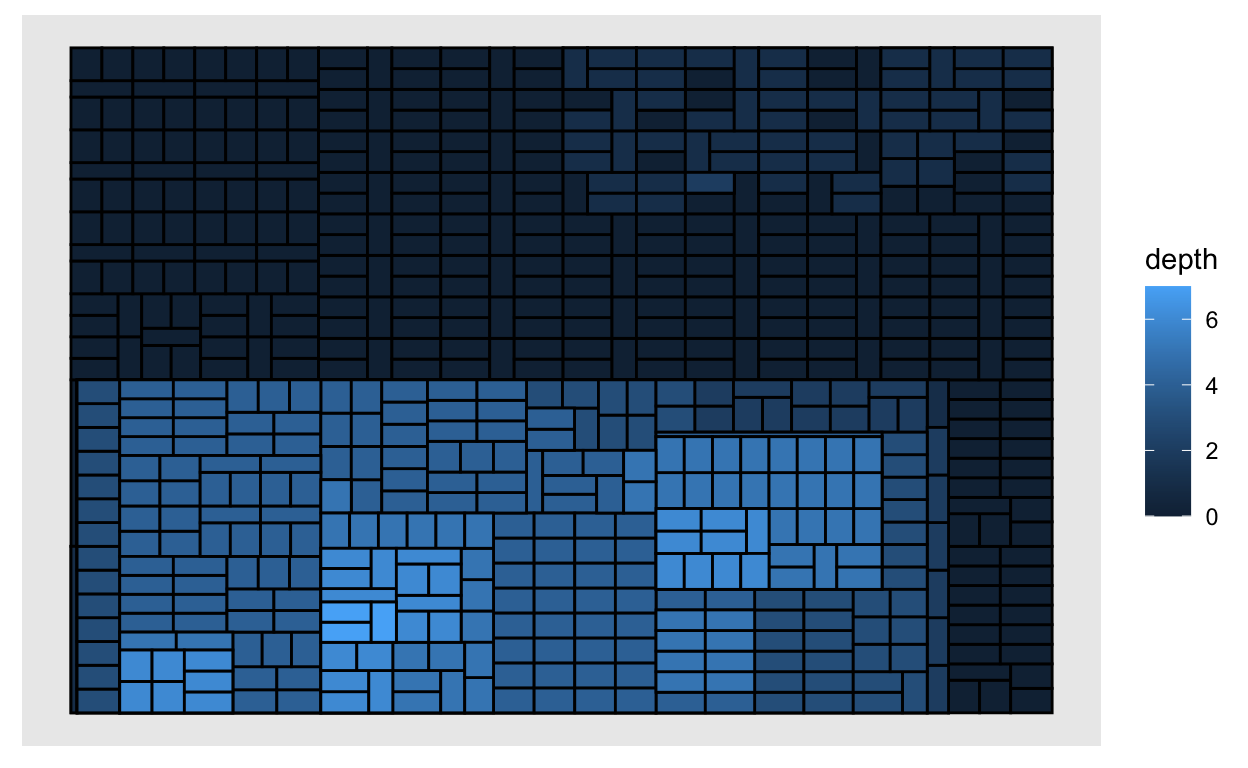
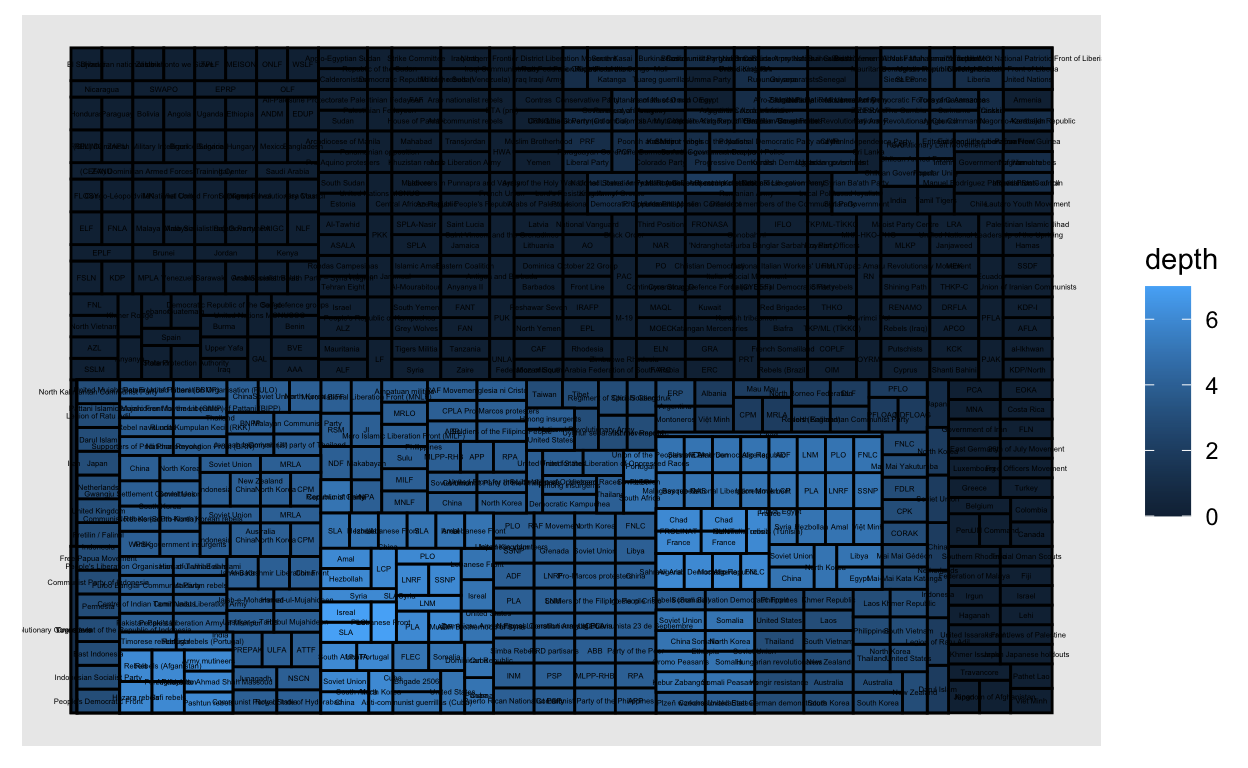
jlk

diff --git a/docs/_posts/2022-03-07-into-the-20th-century-conflict-data/into-the-20th-century-conflict-data.html b/docs/_posts/2022-03-07-into-the-20th-century-conflict-data/into-the-20th-century-conflict-data.html
@@ -117,7 +117,7 @@ code span.wa { color: #5e5e5e; font-style: italic; } /* Warning */
   <!--/radix_placeholder_rmarkdown_metadata-->
   
   <script type="text/json" id="radix-resource-manifest">
-  {"type":"character","attributes":{},"value":["into-the-20th-century-conflict-data_files/anchor-4.2.2/anchor.min.js","into-the-20th-century-conflict-data_files/bowser-1.9.3/bowser.min.js","into-the-20th-century-conflict-data_files/distill-2.2.21/template.v2.js","into-the-20th-century-conflict-data_files/figure-html5/unnamed-chunk-18-1.png","into-the-20th-century-conflict-data_files/figure-html5/unnamed-chunk-20-1.png","into-the-20th-century-conflict-data_files/figure-html5/unnamed-chunk-22-1.png","into-the-20th-century-conflict-data_files/figure-html5/unnamed-chunk-28-1.png","into-the-20th-century-conflict-data_files/figure-html5/unnamed-chunk-30-1.png","into-the-20th-century-conflict-data_files/figure-html5/unnamed-chunk-5-1.png","into-the-20th-century-conflict-data_files/figure-html5/unnamed-chunk-6-1.png","into-the-20th-century-conflict-data_files/figure-html5/unnamed-chunk-7-1.png","into-the-20th-century-conflict-data_files/header-attrs-2.11/header-attrs.js","into-the-20th-century-conflict-data_files/jquery-3.6.0/jquery-3.6.0.js","into-the-20th-century-conflict-data_files/jquery-3.6.0/jquery-3.6.0.min.js","into-the-20th-century-conflict-data_files/jquery-3.6.0/jquery-3.6.0.min.map","into-the-20th-century-conflict-data_files/popper-2.6.0/popper.min.js","into-the-20th-century-conflict-data_files/tippy-6.2.7/tippy-bundle.umd.min.js","into-the-20th-century-conflict-data_files/tippy-6.2.7/tippy-light-border.css","into-the-20th-century-conflict-data_files/tippy-6.2.7/tippy.css","into-the-20th-century-conflict-data_files/tippy-6.2.7/tippy.umd.min.js","into-the-20th-century-conflict-data_files/webcomponents-2.0.0/webcomponents.js"]}
+  {"type":"character","attributes":{},"value":["into-the-20th-century-conflict-data_files/anchor-4.2.2/anchor.min.js","into-the-20th-century-conflict-data_files/bowser-1.9.3/bowser.min.js","into-the-20th-century-conflict-data_files/distill-2.2.21/template.v2.js","into-the-20th-century-conflict-data_files/figure-html5/unnamed-chunk-18-1.png","into-the-20th-century-conflict-data_files/figure-html5/unnamed-chunk-20-1.png","into-the-20th-century-conflict-data_files/figure-html5/unnamed-chunk-22-1.png","into-the-20th-century-conflict-data_files/figure-html5/unnamed-chunk-28-1.png","into-the-20th-century-conflict-data_files/figure-html5/unnamed-chunk-30-1.png","into-the-20th-century-conflict-data_files/figure-html5/unnamed-chunk-5-1.png","into-the-20th-century-conflict-data_files/figure-html5/unnamed-chunk-6-1.png","into-the-20th-century-conflict-data_files/figure-html5/unnamed-chunk-7-1.png","into-the-20th-century-conflict-data_files/header-attrs-2.11/header-attrs.js","into-the-20th-century-conflict-data_files/jquery-3.6.0/jquery-3.6.0.js","into-the-20th-century-conflict-data_files/jquery-3.6.0/jquery-3.6.0.min.js","into-the-20th-century-conflict-data_files/jquery-3.6.0/jquery-3.6.0.min.map","into-the-20th-century-conflict-data_files/popper-2.6.0/popper.min.js","into-the-20th-century-conflict-data_files/tippy-6.2.7/tippy-bundle.umd.min.js","into-the-20th-century-conflict-data_files/tippy-6.2.7/tippy-light-border.css","into-the-20th-century-conflict-data_files/tippy-6.2.7/tippy.css","into-the-20th-century-conflict-data_files/tippy-6.2.7/tippy.umd.min.js","into-the-20th-century-conflict-data_files/webcomponents-2.0.0/webcomponents.js","Media-Network-gjs.html"]}
   </script>
   <!--radix_placeholder_navigation_in_header-->
   <!--/radix_placeholder_navigation_in_header-->
@@ -1521,7 +1521,8 @@ dataset.</p></p>
 <div class="layout-chunk" data-layout="l-body">
 <div class="sourceCode">
 <pre class="sourceCode r"><code class="sourceCode r"><span class='fu'>ggraph</span><span class='op'>(</span><span class='va'>Wars_in_latter_half_of_20th_network</span>, layout <span class='op'>=</span> <span class='st'>"treemap"</span><span class='op'>)</span> <span class='op'>+</span> 
-  <span class='fu'>geom_node_tile</span><span class='op'>(</span><span class='fu'>aes</span><span class='op'>(</span>fill <span class='op'>=</span> <span class='va'>depth</span><span class='op'>)</span><span class='op'>)</span>
+  <span class='fu'>geom_node_tile</span><span class='op'>(</span><span class='fu'>aes</span><span class='op'>(</span>fill <span class='op'>=</span> <span class='va'>depth</span><span class='op'>)</span><span class='op'>)</span><span class='op'>+</span>    
+  <span class='fu'>geom_node_text</span><span class='op'>(</span><span class='fu'>aes</span><span class='op'>(</span>label <span class='op'>=</span> <span class='va'>name</span><span class='op'>)</span>, size<span class='op'>=</span><span class='fl'>1</span>, repel<span class='op'>=</span><span class='cn'>FALSE</span><span class='op'>)</span>
 </code></pre>
 </div>
 <p><img src="into-the-20th-century-conflict-data_files/figure-html5/unnamed-chunk-7-1.png" width="624" /></p>
@@ -2176,6 +2177,30 @@ dataset.</p></p>
 </code></pre>
 </div>
 <p><img src="into-the-20th-century-conflict-data_files/figure-html5/unnamed-chunk-30-1.png" width="624" /></p>
+</div>
+<div class="layout-chunk" data-layout="l-body">
+<div class="sourceCode">
+<pre class="sourceCode r"><code class="sourceCode r"><span class='kw'><a href='https://rdrr.io/r/base/library.html'>library</a></span><span class='op'>(</span><span class='va'><a href='https://bwlewis.github.io/rthreejs'>threejs</a></span><span class='op'>)</span>
+<span class='kw'><a href='https://rdrr.io/r/base/library.html'>library</a></span><span class='op'>(</span><span class='va'><a href='https://github.com/ramnathv/htmlwidgets'>htmlwidgets</a></span><span class='op'>)</span>
+<span class='kw'><a href='https://rdrr.io/r/base/library.html'>library</a></span><span class='op'>(</span><span class='va'><a href='https://igraph.org'>igraph</a></span><span class='op'>)</span>
+</code></pre>
+</div>
+</div>
+<div class="layout-chunk" data-layout="l-body">
+<div class="sourceCode">
+<pre class="sourceCode r"><code class="sourceCode r"><span class='va'>net.js</span> <span class='op'>&lt;-</span> <span class='va'>Wars_in_latter_half_of_20th.ig</span>
+<span class='fu'><a href='https://rdrr.io/pkg/igraph/man/graph_attr.html'>graph_attr</a></span><span class='op'>(</span><span class='va'>net.js</span>, <span class='st'>"layout"</span><span class='op'>)</span> <span class='op'>&lt;-</span> <span class='cn'>NULL</span> 
+</code></pre>
+</div>
+</div>
+<div class="layout-chunk" data-layout="l-body">
+<div class="sourceCode">
+<pre class="sourceCode r"><code class="sourceCode r"><span class='va'>gjs</span> <span class='op'>&lt;-</span> <span class='fu'><a href='https://rdrr.io/pkg/threejs/man/graphjs.html'>graphjs</a></span><span class='op'>(</span><span class='va'>net.js</span>, main<span class='op'>=</span><span class='st'>"Cold War Interactive Network"</span>, bg<span class='op'>=</span><span class='st'>"gray10"</span>, vertex.size<span class='op'>=</span><span class='fl'>0.5</span>, showLabels<span class='op'>=</span><span class='cn'>T</span>, vertex.label <span class='op'>=</span> <span class='fu'><a href='https://rdrr.io/pkg/igraph/man/V.html'>V</a></span><span class='op'>(</span><span class='va'>net.js</span><span class='op'>)</span><span class='op'>$</span><span class='va'>name</span>, stroke<span class='op'>=</span><span class='cn'>F</span>, curvature<span class='op'>=</span><span class='fl'>0.1</span>, attraction<span class='op'>=</span><span class='fl'>0.9</span>, repulsion<span class='op'>=</span><span class='fl'>0.7</span>, opacity<span class='op'>=</span><span class='fl'>0.9</span><span class='op'>)</span>
+<span class='fu'><a href='https://rdrr.io/r/base/print.html'>print</a></span><span class='op'>(</span><span class='va'>gjs</span><span class='op'>)</span>
+<span class='co'>#saveWidget(gjs, file="Media-Network-gjs.html")</span>
+<span class='co'>#browseURL("Media-Network-gjs.html")</span>
+</code></pre>
+</div>
 </div>
 <div class="sourceCode" id="cb5"><pre
 class="sourceCode r distill-force-highlighting-css"><code class="sourceCode r"></code></pre></div>

diff --git a/docs/posts/2022-03-07-into-the-20th-century-conflict-data/index.html b/docs/posts/2022-03-07-into-the-20th-century-conflict-data/index.html
@@ -133,7 +133,7 @@ code span.wa { color: #5e5e5e; font-style: italic; } /* Warning */
 <!--/radix_placeholder_rmarkdown_metadata-->
   
   <script type="text/json" id="radix-resource-manifest">
-  {"type":"character","attributes":{},"value":["into-the-20th-century-conflict-data_files/anchor-4.2.2/anchor.min.js","into-the-20th-century-conflict-data_files/bowser-1.9.3/bowser.min.js","into-the-20th-century-conflict-data_files/distill-2.2.21/template.v2.js","into-the-20th-century-conflict-data_files/figure-html5/unnamed-chunk-18-1.png","into-the-20th-century-conflict-data_files/figure-html5/unnamed-chunk-20-1.png","into-the-20th-century-conflict-data_files/figure-html5/unnamed-chunk-22-1.png","into-the-20th-century-conflict-data_files/figure-html5/unnamed-chunk-28-1.png","into-the-20th-century-conflict-data_files/figure-html5/unnamed-chunk-30-1.png","into-the-20th-century-conflict-data_files/figure-html5/unnamed-chunk-5-1.png","into-the-20th-century-conflict-data_files/figure-html5/unnamed-chunk-6-1.png","into-the-20th-century-conflict-data_files/figure-html5/unnamed-chunk-7-1.png","into-the-20th-century-conflict-data_files/header-attrs-2.11/header-attrs.js","into-the-20th-century-conflict-data_files/jquery-3.6.0/jquery-3.6.0.js","into-the-20th-century-conflict-data_files/jquery-3.6.0/jquery-3.6.0.min.js","into-the-20th-century-conflict-data_files/jquery-3.6.0/jquery-3.6.0.min.map","into-the-20th-century-conflict-data_files/popper-2.6.0/popper.min.js","into-the-20th-century-conflict-data_files/tippy-6.2.7/tippy-bundle.umd.min.js","into-the-20th-century-conflict-data_files/tippy-6.2.7/tippy-light-border.css","into-the-20th-century-conflict-data_files/tippy-6.2.7/tippy.css","into-the-20th-century-conflict-data_files/tippy-6.2.7/tippy.umd.min.js","into-the-20th-century-conflict-data_files/webcomponents-2.0.0/webcomponents.js"]}
+  {"type":"character","attributes":{},"value":["into-the-20th-century-conflict-data_files/anchor-4.2.2/anchor.min.js","into-the-20th-century-conflict-data_files/bowser-1.9.3/bowser.min.js","into-the-20th-century-conflict-data_files/distill-2.2.21/template.v2.js","into-the-20th-century-conflict-data_files/figure-html5/unnamed-chunk-18-1.png","into-the-20th-century-conflict-data_files/figure-html5/unnamed-chunk-20-1.png","into-the-20th-century-conflict-data_files/figure-html5/unnamed-chunk-22-1.png","into-the-20th-century-conflict-data_files/figure-html5/unnamed-chunk-28-1.png","into-the-20th-century-conflict-data_files/figure-html5/unnamed-chunk-30-1.png","into-the-20th-century-conflict-data_files/figure-html5/unnamed-chunk-5-1.png","into-the-20th-century-conflict-data_files/figure-html5/unnamed-chunk-6-1.png","into-the-20th-century-conflict-data_files/figure-html5/unnamed-chunk-7-1.png","into-the-20th-century-conflict-data_files/header-attrs-2.11/header-attrs.js","into-the-20th-century-conflict-data_files/jquery-3.6.0/jquery-3.6.0.js","into-the-20th-century-conflict-data_files/jquery-3.6.0/jquery-3.6.0.min.js","into-the-20th-century-conflict-data_files/jquery-3.6.0/jquery-3.6.0.min.map","into-the-20th-century-conflict-data_files/popper-2.6.0/popper.min.js","into-the-20th-century-conflict-data_files/tippy-6.2.7/tippy-bundle.umd.min.js","into-the-20th-century-conflict-data_files/tippy-6.2.7/tippy-light-border.css","into-the-20th-century-conflict-data_files/tippy-6.2.7/tippy.css","into-the-20th-century-conflict-data_files/tippy-6.2.7/tippy.umd.min.js","into-the-20th-century-conflict-data_files/webcomponents-2.0.0/webcomponents.js","Media-Network-gjs.html"]}
   </script>
   <!--radix_placeholder_navigation_in_header-->
 <meta name="distill:offset" content="../.."/>
@@ -2156,7 +2156,8 @@ dataset.</p></p>
 <div class="layout-chunk" data-layout="l-body">
 <div class="sourceCode">
 <pre class="sourceCode r"><code class="sourceCode r"><span class='fu'>ggraph</span><span class='op'>(</span><span class='va'>Wars_in_latter_half_of_20th_network</span>, layout <span class='op'>=</span> <span class='st'>"treemap"</span><span class='op'>)</span> <span class='op'>+</span> 
-  <span class='fu'>geom_node_tile</span><span class='op'>(</span><span class='fu'>aes</span><span class='op'>(</span>fill <span class='op'>=</span> <span class='va'>depth</span><span class='op'>)</span><span class='op'>)</span>
+  <span class='fu'>geom_node_tile</span><span class='op'>(</span><span class='fu'>aes</span><span class='op'>(</span>fill <span class='op'>=</span> <span class='va'>depth</span><span class='op'>)</span><span class='op'>)</span><span class='op'>+</span>    
+  <span class='fu'>geom_node_text</span><span class='op'>(</span><span class='fu'>aes</span><span class='op'>(</span>label <span class='op'>=</span> <span class='va'>name</span><span class='op'>)</span>, size<span class='op'>=</span><span class='fl'>1</span>, repel<span class='op'>=</span><span class='cn'>FALSE</span><span class='op'>)</span>
 </code></pre>
 </div>
 <p><img src="into-the-20th-century-conflict-data_files/figure-html5/unnamed-chunk-7-1.png" width="624" /></p>
@@ -2811,6 +2812,30 @@ dataset.</p></p>
 </code></pre>
 </div>
 <p><img src="into-the-20th-century-conflict-data_files/figure-html5/unnamed-chunk-30-1.png" width="624" /></p>
+</div>
+<div class="layout-chunk" data-layout="l-body">
+<div class="sourceCode">
+<pre class="sourceCode r"><code class="sourceCode r"><span class='kw'><a href='https://rdrr.io/r/base/library.html'>library</a></span><span class='op'>(</span><span class='va'><a href='https://bwlewis.github.io/rthreejs'>threejs</a></span><span class='op'>)</span>
+<span class='kw'><a href='https://rdrr.io/r/base/library.html'>library</a></span><span class='op'>(</span><span class='va'><a href='https://github.com/ramnathv/htmlwidgets'>htmlwidgets</a></span><span class='op'>)</span>
+<span class='kw'><a href='https://rdrr.io/r/base/library.html'>library</a></span><span class='op'>(</span><span class='va'><a href='https://igraph.org'>igraph</a></span><span class='op'>)</span>
+</code></pre>
+</div>
+</div>
+<div class="layout-chunk" data-layout="l-body">
+<div class="sourceCode">
+<pre class="sourceCode r"><code class="sourceCode r"><span class='va'>net.js</span> <span class='op'>&lt;-</span> <span class='va'>Wars_in_latter_half_of_20th.ig</span>
+<span class='fu'><a href='https://rdrr.io/pkg/igraph/man/graph_attr.html'>graph_attr</a></span><span class='op'>(</span><span class='va'>net.js</span>, <span class='st'>"layout"</span><span class='op'>)</span> <span class='op'>&lt;-</span> <span class='cn'>NULL</span> 
+</code></pre>
+</div>
+</div>
+<div class="layout-chunk" data-layout="l-body">
+<div class="sourceCode">
+<pre class="sourceCode r"><code class="sourceCode r"><span class='va'>gjs</span> <span class='op'>&lt;-</span> <span class='fu'><a href='https://rdrr.io/pkg/threejs/man/graphjs.html'>graphjs</a></span><span class='op'>(</span><span class='va'>net.js</span>, main<span class='op'>=</span><span class='st'>"Cold War Interactive Network"</span>, bg<span class='op'>=</span><span class='st'>"gray10"</span>, vertex.size<span class='op'>=</span><span class='fl'>0.5</span>, showLabels<span class='op'>=</span><span class='cn'>T</span>, vertex.label <span class='op'>=</span> <span class='fu'><a href='https://rdrr.io/pkg/igraph/man/V.html'>V</a></span><span class='op'>(</span><span class='va'>net.js</span><span class='op'>)</span><span class='op'>$</span><span class='va'>name</span>, stroke<span class='op'>=</span><span class='cn'>F</span>, curvature<span class='op'>=</span><span class='fl'>0.1</span>, attraction<span class='op'>=</span><span class='fl'>0.9</span>, repulsion<span class='op'>=</span><span class='fl'>0.7</span>, opacity<span class='op'>=</span><span class='fl'>0.9</span><span class='op'>)</span>
+<span class='fu'><a href='https://rdrr.io/r/base/print.html'>print</a></span><span class='op'>(</span><span class='va'>gjs</span><span class='op'>)</span>
+<span class='co'>#saveWidget(gjs, file="Media-Network-gjs.html")</span>
+<span class='co'>#browseURL("Media-Network-gjs.html")</span>
+</code></pre>
+</div>
 </div>
 <div class="sourceCode" id="cb5"><pre
 class="sourceCode r distill-force-highlighting-css"><code class="sourceCode r"></code></pre></div>
